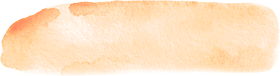
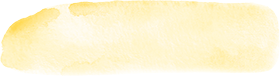
add more png badges

diff --git a/src/besedy.html b/src/besedy.html
@@ -57,7 +57,7 @@ footerCharacterOrientation: left
         <div class="book-content">
           <h2 class="book-name mb-2">Čert nebo andílek?</h2>
           <h3 class="h5 text-muted mb-4">beseda podle knihy Eliška andílek</h3>
-          <div class="performance-badge badge-yellow-png p-3 rounded mb-3">
+          <div class="performance-badge badge-orange-png p-3 rounded mb-3">
             Pro děti 1. až 3. tříd
           </div>
 
@@ -103,7 +103,7 @@ footerCharacterOrientation: left
         <div class="book-content">
           <h2 class="book-name mb-2">Nakresli si svého starouška</h2>
           <h3 class="h5 text-muted mb-4">beseda podle knihy Viktor a záhadná teta Bobina</h3>
-          <div class="performance-badge badge-yellow-png p-3 rounded mb-3">
+          <div class="performance-badge badge-orange-png p-3 rounded mb-3">
             Pro děti 2. až 4. tříd
           </div>
 
@@ -135,7 +135,7 @@ footerCharacterOrientation: left
         <div class="book-content">
           <h2 class="book-name mb-2">Jdi za svým snem</h2>
           <h3 class="h5 text-muted mb-4">beseda podle knihy Hra o sen</h3>
-          <div class="performance-badge badge-yellow-png p-3 rounded mb-3">
+          <div class="performance-badge badge-orange-png p-3 rounded mb-3">
             Pro děti 5. až 9. tříd
           </div>
 
@@ -186,7 +186,7 @@ footerCharacterOrientation: left
         <div class="book-content">
           <h2 class="book-name mb-2">Každá rodina má své tajemství</h2>
           <h3 class="h5 text-muted mb-4">beseda podle knihy Tajemství rodiny M.</h3>
-          <div class="performance-badge badge-yellow-png p-3 rounded mb-3">
+          <div class="performance-badge badge-orange-png p-3 rounded mb-3">
             Pro děti 4. až 5. tříd
           </div>
 
@@ -214,7 +214,7 @@ footerCharacterOrientation: left
         <div class="book-content">
           <h2 class="book-name mb-2">Róza a strom života</h2>
           <h3 class="h5 text-muted mb-4">beseda ke knize Róza a ztracený tatínek</h3>
-          <div class="performance-badge badge-yellow-png p-3 rounded mb-3">
+          <div class="performance-badge badge-orange-png p-3 rounded mb-3">
             Pro děti 4. až 5. tříd
           </div>
 

diff --git a/src/css/style.css b/src/css/style.css
@@ -2342,6 +2342,22 @@ p,
   flex-direction: column;
 }
 
+/* Additional PNG badge variants */
+.badge-orange-png {
+  background-image: url("images/bck-orange.png");
+  flex-direction: column;
+}
+
+.badge-green-png {
+  background-image: url("images/bck-green.png");
+  flex-direction: column;
+}
+
+.badge-blue-png {
+  background-image: url("images/bck-blue.png");
+  flex-direction: column;
+}
+
 .badge-green {
   background-image: url("images/bck-green.jpg");
   flex-direction: column;
